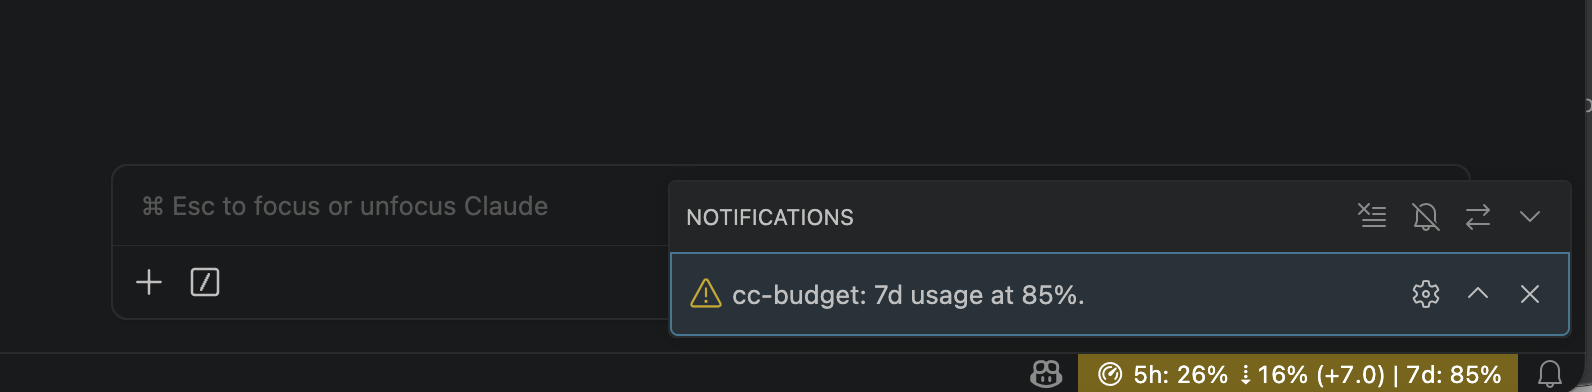
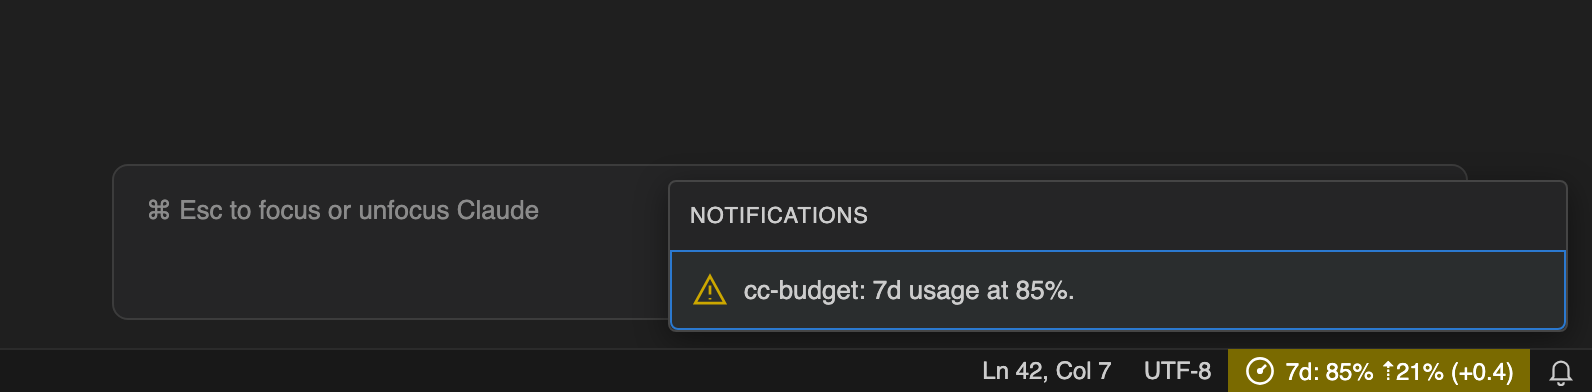
Regenerate demo images for 1.3.0 from the real renderers
demo/render.cjs builds every README image by running the actual status
line formatter and VS Code extension against pinned-clock scenarios, so
the images can't drift from the code:
- cc-budget-modes.svg: animated, now four plans (Ultra, Max/Pro,
  gateway, API)
- cc-budget-preview-cropped.png: Ultra weekly-first rows, Pro/Max,
  gateway/API, and a legend for today/out/cold
- vscode-extension-statusbar.png: 0.3.0 status bar on an Ultra account

diff --git a/README.md b/README.md
@@ -246,6 +246,13 @@ Open `vscode-extension/` in VS Code and press F5 to launch an Extension Developm
 
 The extension reads the same `~/.claude/cc-budget/state.json` and `~/.config/cc-budget/config.json` as the CLI and needs no extra configuration.
 
+## Development
+
+```bash
+node --test test.cjs     # end-to-end tests: runs statusline.cjs and hook.cjs against a temp HOME
+node demo/render.cjs     # regenerates the demo images from the real renderers (needs Chrome for the PNGs)
+```
+
 ## Uninstall
 
 ```bash
